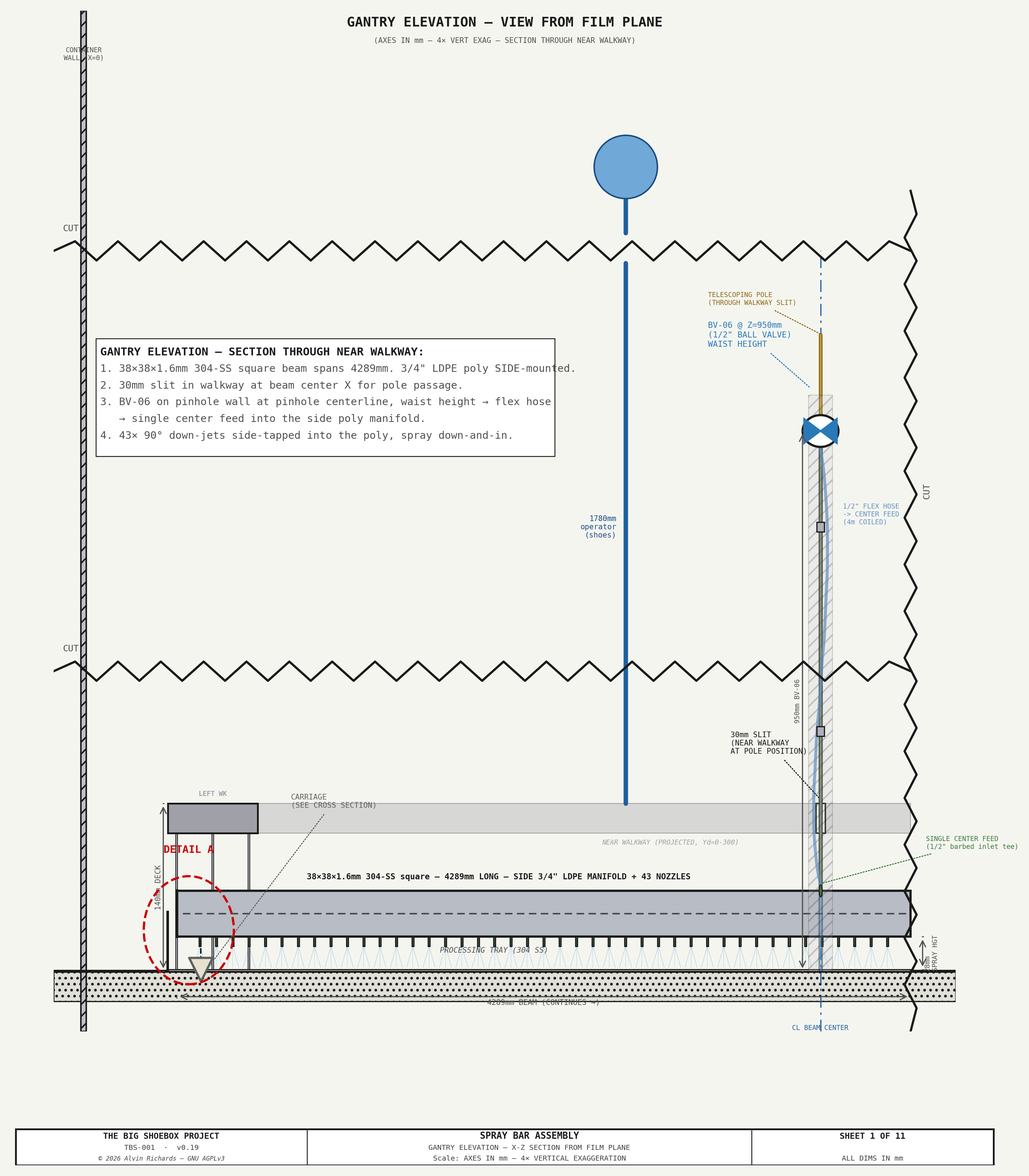
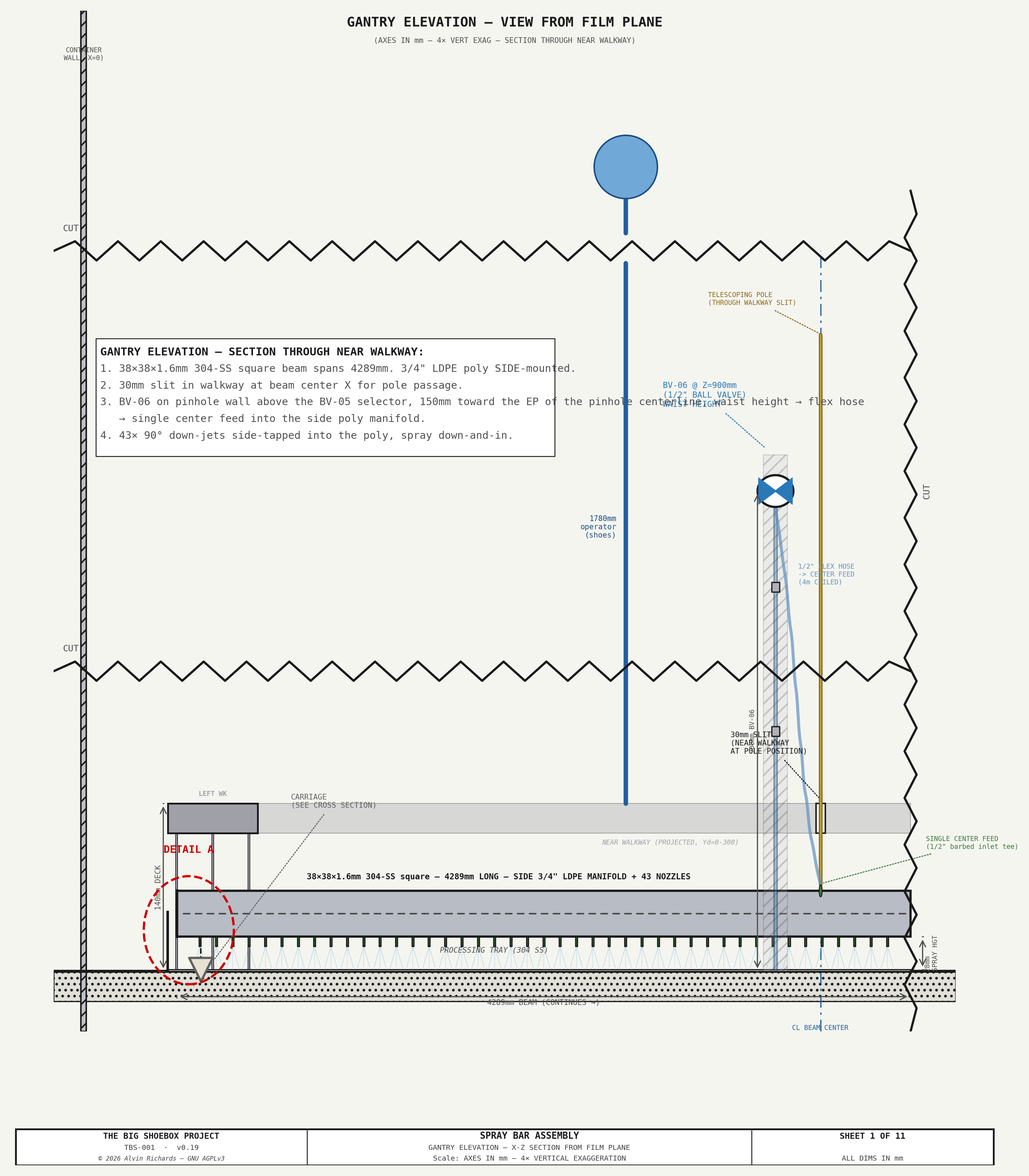
Spray valves at real positions: BV05_X (pinhole X − 150), BV05_Z 700, BV06_Z 900 read by 2D + 3D, elevation redrawn to the 3D topology; Plumbing §5 flow diagrams vertical + Brown drain-out

diff --git a/src/generators/generate_pinhole_wall_elevation.py b/src/generators/generate_pinhole_wall_elevation.py
@@ -17,7 +17,7 @@ matplotlib.use("Agg")
 import matplotlib.pyplot as plt
 import matplotlib.patches as mpatches
 
-from tbs_constants import C_LEN, C_HGT, PH_X, PH_H, EVAP_DUCT_X, EVAP_DUCT_Z, EVAP_DUCT_D, EVAP_STOW_X, EVAP_W, EVAP_D, EVAP_H, EVAP_STOW_Z, PWR_PANEL_X, PWR_PANEL_W, PWR_PANEL_H, PWR_PANEL_Z, EP_X, EP_W, EP_H_LO, EP_H_HI, BA_X, BA_W, BA_H_LO, BA_H_HI, BA_STACK_TOP, BA_D, PUMP_PIPE_OD, PUMP_PIPE_WALL, TAP_X, TAP_Z, SHELF_X_L, SHELF_X_R, SHELF_H, SHELF_T, SHELF_STOW_TOP_Z, SHELF_YD_NEAR, SHELF_DEPTH, PULL_CORD_BOTTOM_Z, WALKWAY_H, WALKWAY_GRATE_T, WALKWAY_W, WALKWAY_BRACKET_T, WALKWAY_NEAR_WIDE_W, WALKWAY_NEAR_WIDE_X_L, WALKWAY_NEAR_WIDE_X_R, CONTAINER_RIB_SPACING, PROC_TRAY_X_L, PROC_TRAY_X_R, PROC_TRAY_DRAIN_X, PROC_TRAY_SUMP_W, PROC_TRAY_SUMP_Z, SUMP_SUCTION_WALL_RUN_Z, PROC_TRAY_RIM, PROC_TRAY_YD_NEAR, SPRAY_BAR_FEED_Z, BV05_X, BV05_Z, C_OUT, C_CL, C_DIM, C_ALUM, C_STEEL, C_EVAP, C_ELEC, C_BATT, C_PINHOLE_EQ, ZONE_R_START, BB_OD, PWP_FILTER_X1, PWP_FILTER_X2, PWP_FILTER_X3, PWP_FILTER_TOP_Z, PWP_FILTER_BOT_Z, PWP_FILTER_HEAD_Z, PWP_FILTER_CAP_Z, PWP_SV01_X, PWP_SV01_Z, PWP_SROW_Z0, PWP_SV02_Z, PWP_DV02_Z, PWP_ACC2_X, PWP_ACC2_Z0, PWP_PANEL_X0, PWP_PANEL_X1, PWP_PANEL_Z0, PWP_PANEL_H, DIAGRAMS_DIR
+from tbs_constants import C_LEN, C_HGT, PH_X, PH_H, EVAP_DUCT_X, EVAP_DUCT_Z, EVAP_DUCT_D, EVAP_STOW_X, EVAP_W, EVAP_D, EVAP_H, EVAP_STOW_Z, PWR_PANEL_X, PWR_PANEL_W, PWR_PANEL_H, PWR_PANEL_Z, EP_X, EP_W, EP_H_LO, EP_H_HI, BA_X, BA_W, BA_H_LO, BA_H_HI, BA_STACK_TOP, BA_D, PUMP_PIPE_OD, PUMP_PIPE_WALL, TAP_X, TAP_Z, SHELF_X_L, SHELF_X_R, SHELF_H, SHELF_T, SHELF_STOW_TOP_Z, SHELF_YD_NEAR, SHELF_DEPTH, PULL_CORD_BOTTOM_Z, WALKWAY_H, WALKWAY_GRATE_T, WALKWAY_W, WALKWAY_BRACKET_T, WALKWAY_NEAR_WIDE_W, WALKWAY_NEAR_WIDE_X_L, WALKWAY_NEAR_WIDE_X_R, CONTAINER_RIB_SPACING, PROC_TRAY_X_L, PROC_TRAY_X_R, PROC_TRAY_DRAIN_X, PROC_TRAY_SUMP_W, PROC_TRAY_SUMP_Z, SUMP_SUCTION_WALL_RUN_Z, PROC_TRAY_RIM, PROC_TRAY_YD_NEAR, SPRAY_BAR_FEED_Z, BV05_X, BV05_Z, BV06_Z, C_OUT, C_CL, C_DIM, C_ALUM, C_STEEL, C_EVAP, C_ELEC, C_BATT, C_PINHOLE_EQ, ZONE_R_START, BB_OD, PWP_FILTER_X1, PWP_FILTER_X2, PWP_FILTER_X3, PWP_FILTER_TOP_Z, PWP_FILTER_BOT_Z, PWP_FILTER_HEAD_Z, PWP_FILTER_CAP_Z, PWP_SV01_X, PWP_SV01_Z, PWP_SROW_Z0, PWP_SV02_Z, PWP_DV02_Z, PWP_ACC2_X, PWP_ACC2_Z0, PWP_PANEL_X0, PWP_PANEL_X1, PWP_PANEL_Z0, PWP_PANEL_H, DIAGRAMS_DIR
 from tbs_drawing import (draw_dim_h, draw_dim_v, leader, draw_cl, draw_notes, draw_mixed_pipe,
                          draw_pipe_path as _tbs_pipe_path)
 from tbs_title_block import title_block
@@ -439,15 +439,16 @@ ax.text(sx(4590), sz(PWP_ACC2_Z0 + 120), "from P-02\n(corridor)", ha="right", va
 # ── ACC-02 OUT — recycled spray → 3W-BV-05 spray selector → spray bar ──
 # The −X run crosses BEHIND the P-04 sump-pickup riser (X=_rise_x): the riser stays unbroken and this
 # run breaks flush against its outer wall (plumbing-skill crossing rule — no bridge arcs).
-_bv5x, _bv5z = BV05_X - 150, BV05_Z
+_bv5x, _bv5z = BV05_X, BV05_Z
 _zc = PWP_ACC2_Z0 + 60                             # 980 — the ACC-02 OUT run height
+_bv5_in_x = _bv5x + 45                             # recycled drop, beside the selector (clear of the sump riser + the mixed riser above)
 _bpipe([PWP_ACC2_X - 63, _rise_x + OD_H / 2], [_zc, _zc])
-_bpipe([_rise_x - OD_H / 2, _bv5x, _bv5x], [_zc, _zc, _bv5z + 20])
+_bpipe([_rise_x - OD_H / 2, _bv5_in_x, _bv5_in_x, _bv5x + 8], [_zc, _zc, _bv5z, _bv5z])   # into the selector's +X recycled port
 # 3W-BV-05 selector symbol (fresh Blue ↔ recycled Brown → spray bar)
 ax.add_patch(mpatches.Rectangle((sx(_bv5x) - 8, sz(_bv5z) - 8), 16, 16, facecolor=C_VALVE, edgecolor=C_OUT, lw=0.8, zorder=12))
-ax.text(sx(_bv5x), sz(_bv5z + 95), "3W-BV-05\n(spray selector)", ha="center", va="bottom", fontsize=4.0, color=C_BROWN, zorder=10, **FONT)
-# BV-05 → down to the spray-bar supply line (where the Blue supply feeds in)
-_bpipe([_bv5x, _bv5x], [_bv5z - 20, SPRAY_BAR_FEED_Z])
+ax.text(sx(_bv5x - 40), sz(_bv5z), "3W-BV-05\n(spray selector)", ha="left", va="center", fontsize=4.0, color=C_BROWN, zorder=10, **FONT)
+# Blue supply trunk → UP into the BV-05 selector's fresh port
+draw_pipe_path(ax, [_bv5x, _bv5x], [SPRAY_BAR_FEED_Z, _bv5z - 8], OD_H, WALL_H, fc=C_BLUE, ec=C_BLUE_EC, bore_fc="white", zorder=8)
 
 # ═══════════════════════════════════════════════════════════════════════════
 # 4a. PLUMBING — Blue supply to spray bar (rev 7: simplified)
@@ -475,20 +476,18 @@ ax.text(sx(_supply_mid_x + 500), sz(SUPPLY_Z + 5),
         f"BLUE SUPPLY → SPRAY BAR (Z={SUPPLY_Z}, BELOW GRATING)", ha="center", va="top",
         fontsize=4, color=C_BLUE, zorder=10, **FONT)
 
-# ── BV-06 — spray on/off valve (riser from supply to Z=900) ─────────────
-
-
+# ── BV-06 — spray on/off valve, directly above the BV-05 selector on the same riser ─────────────
 BV05_R = 25              # valve body radius for symbol
 
-# Riser from supply pipe up to BV-06 — downstream of the BV-05 selector: Blue OR Brown (striped)
+# Riser from the BV-05 selector up to BV-06 — downstream of the selector: Blue OR Brown (striped)
 draw_pipe_path(ax,
     [BV05_X, BV05_X],
-    [SUPPLY_Z, BV05_Z],
+    [BV05_Z + 8, BV06_Z],
     OD_H, WALL_H, fc=C_BLUE, ec=C_BLUE_EC, bore_fc=C_BLUE, zorder=8)
-draw_mixed_pipe(ax, [sx(BV05_X), sx(BV05_X)], [sz(SUPPLY_Z), sz(BV05_Z)], 2.0, base=False, zorder=10)
+draw_mixed_pipe(ax, [sx(BV05_X), sx(BV05_X)], [sz(BV05_Z + 8), sz(BV06_Z)], 2.0, base=False, zorder=10)
 
 # BV-06 ball-valve symbol (bowtie inside white circle)
-_bvx, _bvz = sx(BV05_X), sz(BV05_Z)
+_bvx, _bvz = sx(BV05_X), sz(BV06_Z)
 ax.add_patch(plt.Circle((_bvx, _bvz), BV05_R,
              fc="white", ec=C_BLUE_EC, lw=1.5, zorder=12))
 _bs = BV05_R * 0.62      # bowtie triangle half-size
@@ -501,18 +500,18 @@ ax.add_patch(plt.Polygon([(_bvx + _bs, _bvz - _bs),
                           (_bvx, _bvz)],
                          fc=C_BLUE, ec=C_BLUE, zorder=13))
 
-leader(ax, sx(BV05_X), sz(BV05_Z + BV05_R + 5),
-       sx(BV05_X + 190), sz(BV05_Z + 78),
+leader(ax, sx(BV05_X), sz(BV06_Z + BV05_R + 5),
+       sx(BV05_X + 190), sz(BV06_Z + 78),
        "BV-06 — SPRAY ON/OFF",
        fs=4, color=C_BLUE, font=FONT, zorder=15)
 
 # Flex hose stub from BV-06 (drops down to spray bar — off-wall)
-ax.annotate("", xy=(sx(BV05_X - 100), sz(BV05_Z - 50)),
-            xytext=(sx(BV05_X), sz(BV05_Z - BV05_R)),
+ax.annotate("", xy=(sx(BV05_X - 100), sz(BV06_Z - 50)),
+            xytext=(sx(BV05_X), sz(BV06_Z - BV05_R)),
             arrowprops=dict(arrowstyle="-|>", color=C_BLUE, lw=0.8,
                             connectionstyle="arc3,rad=0.3"),
             zorder=10)
-ax.text(sx(BV05_X - 175), sz(BV05_Z - 80),
+ax.text(sx(BV05_X - 175), sz(BV06_Z - 80),
         "FLEX HOSE\nTO SPRAY BAR\n(OFF WALL ·\nBlue or Brown)",
         ha="left", va="top", fontsize=4.0, color=C_BLUE,
         style="italic", zorder=10, **FONT)
@@ -650,7 +649,7 @@ for ix_mm, ilabel in items:
 notes = [
     "NOTES",
     f"1. Blue supply pipe: ½\" PVC Sch-40 (OD=21mm) at Z={SUPPLY_Z} (below walkway grating),"
-    f" from IBC zone to spray bar. BV-06 riser at pinhole centerline to Z={BV05_Z} (waist height)."
+    f" from IBC zone to spray bar. BV-05 selector at Z={BV05_Z}, BV-06 on/off above it at Z={BV06_Z} (waist height), {PH_X - BV05_X}mm toward the EP of the pinhole centerline."
     " Chemistry tap branch (¾\") rises to shelf.",
     f"2. Evap cooler is EXTERNAL — its only presence on this wall is the Ø{EVAP_DUCT_D}mm duct penetration at X={EVAP_DUCT_X}, Z={EVAP_DUCT_Z}.",
     "3. Pinhole wall carries the FILTER SKID: tray-drain P-04 + SV-02 + DV-02 (skid row under the filters),"

diff --git a/src/models/generate_sketchup_model.py b/src/models/generate_sketchup_model.py
@@ -37,7 +37,7 @@ import math
 import argparse
 
 sys.path.insert(0, os.path.join(os.path.dirname(__file__), "..", "generators"))
-from tbs_constants import C_LEN, C_WID, C_HGT, WALL_T, PROC_TRAY_X_L, PROC_TRAY_X_R, PROC_TRAY_YD_NEAR, PROC_TRAY_YD_FAR, PROC_TRAY_RIM, PROC_TRAY_FLOOR_Z_LOW, tray_floor_z, WALKWAY_W, WALKWAY_H, WALKWAY_GRATE_T, WALKWAY_FAR_YD, WALKWAY_RIGHT_X, WALKWAY_RIGHT_W, WALKWAY_LEFT_X, WALKWAY_BRACKET_T, WALKWAY_BRACKET_H, CONTAINER_RIB_SPACING, WALKWAY_NEAR_WIDE_W, WALKWAY_NEAR_WIDE_X_L, WALKWAY_NEAR_WIDE_X_R, WALKWAY_LEFT_WIDE_W, WALKWAY_LEFT_WIDE_YD_L, WALKWAY_LEFT_WIDE_YD_R, PH_X, PH_H, PH_D, FP_X_L, FP_X_R, FP_H, FP_Y, RAIL_X_R, RAIL_OFF_BOT, FP_RAIL_WEB, FP_RAIL_FLANGE, FP_RAIL_BUILD_BOT, FP_RAIL_GUIDE_GAP, FP_RAIL_ZC_BOT, FP_RAIL_ZC_TOP, FP_FILM_TOP, BAY_FRONT_X, BAY_WALL_T, PANEL_CENTER_T, PANEL_CORNER_T, PANEL_FLOOR_GAP, PANEL_FAN_BAND_Z, PANEL_CORNER_YD_L, PANEL_CORNER_YD_R, PIVOT_X, PIVOT_YD, SWING_LOCK_DEG, PANEL_CUT_YD, FAR_STRIP_YD0, PIVOT_POST_OD, DRUM_CAGE_X0, DRUM_CAGE_X1, DRUM_CAGE_YD_L, DRUM_CAGE_YD_R, WALKWAY_NEAR_LIFTOUT_X_R, BB_OD, BB_H, EQPANEL_T, IBC_COL_X, IBC_H_1000, IBC_PALLET_H, BLUE_IBC_Y, IBC_FRAME_RHS, IBC_FRONT_BAR_D, IBC_FOOT_PLATE, IBC_FOOT_PLATE_T, FLOOR_PLATE_T, IBC_FOOT_BOLT_PCD, IBC_FRONT_FOOT_DX, IBC_FRONT_RAIL_H, IBC_FRONT_RAIL_W, FP_CORNER_SEAT_PLATE_T, DRUM_CX, DRUM_CY, DRUM_R, DRUM_H_LT, LT_HOUSING_R, LT_HOUSING_T, LT_DRUM_OR, LT_DRUM_T, LT_OPENING_DEG, EP_X, EP_W, EP_H_LO, EP_H_HI, ENCL_SHELL_D, SOLAR_ARRAY_X, SOLAR_ARRAY_YD, SHELF_X_L, SHELF_X_R, SHELF_W, SHELF_H, SHELF_T, SHELF_DEPTH, SHELF_YD_NEAR, SHELF_YD_FAR, SHELF_STOW_TOP_Z, EVAP_W, EVAP_D, EVAP_H, EVAP_DUCT_X, EVAP_DUCT_Z, EVAP_DUCT_D, INVERTER_X, INVERTER_Z, INVERTER_W, INVERTER_H, INVERTER_D, FAN_BODY_D, FAN_A_YD, FAN_A_H, FAN_B_YD, FAN_B_H, DUCT_DEPTH, DUCT_HEIGHT, BV05_X, TAP_X, TAP_Z, TAP_PIPE_OD, PUMP_PIPE_OD, SPRAY_BAR_FEED_Z, SPRAY_BAR_TRAY_FLOOR, PROC_TRAY_DRAIN_X, PROC_TRAY_SUMP_Z, SUMP_SUCTION_WALL_RUN_Z, PWP_FILTER_X1, PWP_FILTER_X2, PWP_FILTER_X3, PWP_FILTER_TOP_Z, PWP_FILTER_YD, PWP_P02_X, PWP_SV01_X, PWP_WAIST_Z, PWP_SV01_Z, PWP_PANEL_X0, PWP_PANEL_X1, PWP_PANEL_Z0, PWP_PANEL_H, PWP_SROW_Z0, PWP_ACC2_X, PWP_ACC2_Z0, RWK_X_L, RWK_X_R, RWK_ARM_BOT, RWK_ARM_TOP, RWK_AH, RWK_ARM_W, RWK_BEARER_W, RWK_X_UP, RWK_J6_BOLT_ZS, RWK_J6_EP_H, RWK_RIBBON_NOTCH_YDS, PDH_PLATE_OD, PDH_RING_OD, PDH_PLATE_T, PDH_RING_T, PDH_ADAPT_OD, PDH_ADAPT_T, PDH_MOUNT_BC, PDH_MOUNT_N
+from tbs_constants import C_LEN, C_WID, C_HGT, WALL_T, PROC_TRAY_X_L, PROC_TRAY_X_R, PROC_TRAY_YD_NEAR, PROC_TRAY_YD_FAR, PROC_TRAY_RIM, PROC_TRAY_FLOOR_Z_LOW, tray_floor_z, WALKWAY_W, WALKWAY_H, WALKWAY_GRATE_T, WALKWAY_FAR_YD, WALKWAY_RIGHT_X, WALKWAY_RIGHT_W, WALKWAY_LEFT_X, WALKWAY_BRACKET_T, WALKWAY_BRACKET_H, CONTAINER_RIB_SPACING, WALKWAY_NEAR_WIDE_W, WALKWAY_NEAR_WIDE_X_L, WALKWAY_NEAR_WIDE_X_R, WALKWAY_LEFT_WIDE_W, WALKWAY_LEFT_WIDE_YD_L, WALKWAY_LEFT_WIDE_YD_R, PH_X, PH_H, PH_D, FP_X_L, FP_X_R, FP_H, FP_Y, RAIL_X_R, RAIL_OFF_BOT, FP_RAIL_WEB, FP_RAIL_FLANGE, FP_RAIL_BUILD_BOT, FP_RAIL_GUIDE_GAP, FP_RAIL_ZC_BOT, FP_RAIL_ZC_TOP, FP_FILM_TOP, BAY_FRONT_X, BAY_WALL_T, PANEL_CENTER_T, PANEL_CORNER_T, PANEL_FLOOR_GAP, PANEL_FAN_BAND_Z, PANEL_CORNER_YD_L, PANEL_CORNER_YD_R, PIVOT_X, PIVOT_YD, SWING_LOCK_DEG, PANEL_CUT_YD, FAR_STRIP_YD0, PIVOT_POST_OD, DRUM_CAGE_X0, DRUM_CAGE_X1, DRUM_CAGE_YD_L, DRUM_CAGE_YD_R, WALKWAY_NEAR_LIFTOUT_X_R, BB_OD, BB_H, EQPANEL_T, IBC_COL_X, IBC_H_1000, IBC_PALLET_H, BLUE_IBC_Y, IBC_FRAME_RHS, IBC_FRONT_BAR_D, IBC_FOOT_PLATE, IBC_FOOT_PLATE_T, FLOOR_PLATE_T, IBC_FOOT_BOLT_PCD, IBC_FRONT_FOOT_DX, IBC_FRONT_RAIL_H, IBC_FRONT_RAIL_W, FP_CORNER_SEAT_PLATE_T, DRUM_CX, DRUM_CY, DRUM_R, DRUM_H_LT, LT_HOUSING_R, LT_HOUSING_T, LT_DRUM_OR, LT_DRUM_T, LT_OPENING_DEG, EP_X, EP_W, EP_H_LO, EP_H_HI, ENCL_SHELL_D, SOLAR_ARRAY_X, SOLAR_ARRAY_YD, SHELF_X_L, SHELF_X_R, SHELF_W, SHELF_H, SHELF_T, SHELF_DEPTH, SHELF_YD_NEAR, SHELF_YD_FAR, SHELF_STOW_TOP_Z, EVAP_W, EVAP_D, EVAP_H, EVAP_DUCT_X, EVAP_DUCT_Z, EVAP_DUCT_D, INVERTER_X, INVERTER_Z, INVERTER_W, INVERTER_H, INVERTER_D, FAN_BODY_D, FAN_A_YD, FAN_A_H, FAN_B_YD, FAN_B_H, DUCT_DEPTH, DUCT_HEIGHT, BV05_X, BV05_Z, BV06_Z, TAP_X, TAP_Z, TAP_PIPE_OD, PUMP_PIPE_OD, SPRAY_BAR_FEED_Z, SPRAY_BAR_TRAY_FLOOR, PROC_TRAY_DRAIN_X, PROC_TRAY_SUMP_Z, SUMP_SUCTION_WALL_RUN_Z, PWP_FILTER_X1, PWP_FILTER_X2, PWP_FILTER_X3, PWP_FILTER_TOP_Z, PWP_FILTER_YD, PWP_P02_X, PWP_SV01_X, PWP_WAIST_Z, PWP_SV01_Z, PWP_PANEL_X0, PWP_PANEL_X1, PWP_PANEL_Z0, PWP_PANEL_H, PWP_SROW_Z0, PWP_ACC2_X, PWP_ACC2_Z0, RWK_X_L, RWK_X_R, RWK_ARM_BOT, RWK_ARM_TOP, RWK_AH, RWK_ARM_W, RWK_BEARER_W, RWK_X_UP, RWK_J6_BOLT_ZS, RWK_J6_EP_H, RWK_RIBBON_NOTCH_YDS, PDH_PLATE_OD, PDH_RING_OD, PDH_PLATE_T, PDH_RING_T, PDH_ADAPT_OD, PDH_ADAPT_T, PDH_MOUNT_BC, PDH_MOUNT_N
 
 from tbs_draw import *            # shared drawing/material primitives (Phase 0 extraction)
 

diff --git a/src/models/generate_pinhole_water_panel.py b/src/models/generate_pinhole_water_panel.py
@@ -395,7 +395,7 @@ def tap01_supply():
     Yd12-against-the-wall path ran straight through the bracket plates/bolts.  BV-04/BV-05 off-panel."""
     yd, fz = ov.PROC_TRAY_YD_NEAR - 11, ov.SPRAY_BAR_FEED_Z   # 69 — butt the tray near rim (Yd80), under the triangle
     pr, tr = ov.PUMP_PIPE_OD / 2, ov.TAP_PIPE_OD / 2
-    bvx = ov.BV05_X - 150   # BV-05 riser nudged 150mm −X (toward the EP) to clear the relocated tray-sump suction at PH_X
+    bvx = ov.BV05_X         # BV-05 / BV-06 riser — 150mm −X of the pinhole centerline, clear of the tray-sump suction
     p = []
     # UNDER-WALKWAY RIBBON (lane 1): the corridor blue trunk (dropped clear of the FP rail at X4670, Yd~1132,
     # z60) rises to FLUSH in the tray-edge slot, crosses the notched outer beam, runs −Yd along the ribbon to
@@ -408,7 +408,7 @@ def tap01_supply():
     # BV-05 3W SELECTOR (fresh ↔ recycled → spray bar) — relocated FORWARD (Yd) + UP (Z) onto a bracket off
     # the pinhole wall, close to the spray-bar pole-top feed (2420,633,1303) so the delivery coil is short.
     #   run = fresh (−Yd, up from the trunk) ↔ spray (+Yd, to the coil); branch = recycled IN (+X, from ACC-02).
-    b5x, b5y, b5z = bvx, yd, 700                       # ON the pinhole wall (Yd69); DROPPED so it + its routing clear the pinhole assembly (Z1024-1364, aperture Z1194)
+    b5x, b5y, b5z = bvx, yd, ov.BV05_Z                 # ON the pinhole wall (Yd69); DROPPED so it + its routing clear the pinhole assembly (Z1024-1364, aperture Z1194)
     dvt = cp.DVB / 2 + cp.DVL                          # diverter port-tip reach
     p.append(cp.diverter("3W-BV-05 (Blue/Brown selector)", b5x, b5y, b5z, run="z", branch="x+", handle="y+", color=draw.C_VALVE))
     # Fresh supply: tap the trunk, rise straight into the −Z fresh port
@@ -422,7 +422,7 @@ def tap01_supply():
         [(b5x, b5y, b5z + dvt),                        # off the BV-05 +Z selected port
          (b5x, b5y, 1000),                             # MIXED (Blue or Brown per BV-05) — UP the pinhole wall to BV-06 (stays below the pinhole Z1024)
          hose_out], pr))
-    p.append(cp.ball_valve("BV-06 (spray on/off)", b5x, b5y, 900, "z", hdir="+y"))   # 2-way ON/OFF — WALL-mounted, reach height
+    p.append(cp.ball_valve("BV-06 (spray on/off)", b5x, b5y, ov.BV06_Z, "z", hdir="+y"))   # 2-way ON/OFF — WALL-mounted, reach height
     p.append(draw.ruby_coil_cord("Spray-bar supply hose (BV-06 -> spray bar, coiled)",
         [hose_out,                                     # out of the riser-top elbow
          (2380, 480, 720),                             # FORWARD-low to the pole area (below the pinhole Z1024)
@@ -539,8 +539,8 @@ LABEL_POINTS = [  # (x, y, z, text, leader dx,dy,dz) — (x,y,z) is the arrow TI
     (ov.C_LEN - 30, cp.X1_TEE_Y, cp.X1_TEE_Z, "X1\n(fresh fill)", -550, 250, 0),
     (ov.C_LEN - 30, cp.COL_L, 1700, "X3\n(brown drain out)", -550, 0, 250),
     (ov.C_LEN - 30, cp.COL_R, 1620, "X4\n(waste drain out)", -550, 0, -250),
-    (ov.BV05_X - 150, ov.PROC_TRAY_YD_NEAR - 11, 700, "3W-BV-05\n(Blue/Brown selector)", 0, 380, 250),   # the wall-mounted spray-bar source selector
-    (ov.BV05_X - 150, ov.PROC_TRAY_YD_NEAR - 11, 900, "BV-06\n(spray on/off)", 0, 300, 200),   # the 2-way on/off, WALL-mounted above the selector
+    (ov.BV05_X, ov.PROC_TRAY_YD_NEAR - 11, ov.BV05_Z, "3W-BV-05\n(Blue/Brown selector)", 0, 380, 250),   # the wall-mounted spray-bar source selector
+    (ov.BV05_X, ov.PROC_TRAY_YD_NEAR - 11, ov.BV06_Z, "BV-06\n(spray on/off)", 0, 300, 200),   # the 2-way on/off, WALL-mounted above the selector
 ]
 # Off-panel / context labels — shown ONLY in the full "Labeled" scene (Labels Context tag), kept
 # OUT of the "Plumbing (labeled)" scene so their leaders don't clutter the plumbing view.
@@ -840,7 +840,7 @@ def skid_plumbing(part="all"):
         lead[:-1] + cross + tail[1:], rp, color=draw.C_IBC_BROWN))
     # ── Leg 5: ACC-02 OUT (−X) → 3W-BV-05 recycled port — closes the recycle-spray loop ──
     acc2_out = (ACC2_X - cp.ACC_R - 30, ov.PWP_FILTER_YD, ACC2_Z0 + 28)   # ACC-02 −X OUT tip (3583.5,104,948)
-    b5rx = (ov.BV05_X - 150) + (cp.DVB / 2 + cp.DVL)                             # BV-05 +X recycled port tip X (2282)
+    b5rx = ov.BV05_X + (cp.DVB / 2 + cp.DVL)                             # BV-05 +X recycled port tip X (2282)
     zb = acc2_out[2]                                        # 948 — panel-bottom run height (= ACC-02 OUT)
     p.append(draw.ruby_pipe_run("ACC-02 -> BV-05 (recycled spray)",
         [acc2_out,                                          # off ACC-02's −X OUT port (collinear −X)

diff --git a/src/generators/generate_spray_bar_diagram.py b/src/generators/generate_spray_bar_diagram.py
@@ -26,7 +26,7 @@ import matplotlib.pyplot as plt
 import matplotlib.patches as mpatches
 from matplotlib.patches import Rectangle, Circle, Wedge, Polygon
 
-from tbs_constants import C_OUT, C_CL, C_DIM, C_LEN, C_WID, PROC_TRAY_X_L, PROC_TRAY_X_R, PROC_TRAY_W, PROC_TRAY_D, PROC_TRAY_RIM, PROC_TRAY_YD_NEAR, PROC_TRAY_YD_FAR, WALKWAY_W, WALKWAY_H, WALKWAY_GRATE_T, WALKWAY_LEFT_X, WALKWAY_RIGHT_X, WALKWAY_FAR_YD, PROC_OPEN_X_L, PROC_OPEN_X_R, PROC_TRAY_FLOOR_Z_LOW, SPRAY_BAR_BEAM, SPRAY_BAR_BEAM_W, SPRAY_BAR_BEAM_H, SPRAY_BAR_BEAM_T, SPRAY_BAR_WHEEL_DIA, SPRAY_BAR_WHEEL_W, SPRAY_BAR_WHEELS_PER_SIDE, SPRAY_BAR_WHEEL_SP, SPRAY_BAR_TRAY_FLOOR, SPRAY_BAR_AXLE_RISE, SPRAY_BAR_BRACKET_DROP, SPRAY_BAR_BEAM_BOT_RISE, SPRAY_BAR_BEAM_TOP_RISE, SPRAY_BAR_POLY_OD, SPRAY_BAR_POLY_ID, SPRAY_BAR_TRAVEL, SPRAY_BAR_N_NOZZLES, SPRAY_BEAM_SPAN, BV05_X, BV05_Z, SPRAY_BAR_SLIT_W, SPRAY_BAR_NOZZLE_PITCH, PROC_TRAY_DRAIN_X, PROC_TRAY_SUMP_W, PROC_TRAY_SUMP_D, PROC_TRAY_SUMP_Z, PROC_TRAY_GUTTER_W, PROC_TRAY_SHIM_N, DIAGRAMS_DIR
+from tbs_constants import C_OUT, C_CL, C_DIM, C_LEN, C_WID, PROC_TRAY_X_L, PROC_TRAY_X_R, PROC_TRAY_W, PROC_TRAY_D, PROC_TRAY_RIM, PROC_TRAY_YD_NEAR, PROC_TRAY_YD_FAR, WALKWAY_W, WALKWAY_H, WALKWAY_GRATE_T, WALKWAY_LEFT_X, WALKWAY_RIGHT_X, WALKWAY_FAR_YD, PROC_OPEN_X_L, PROC_OPEN_X_R, PROC_TRAY_FLOOR_Z_LOW, SPRAY_BAR_BEAM, SPRAY_BAR_BEAM_W, SPRAY_BAR_BEAM_H, SPRAY_BAR_BEAM_T, SPRAY_BAR_WHEEL_DIA, SPRAY_BAR_WHEEL_W, SPRAY_BAR_WHEELS_PER_SIDE, SPRAY_BAR_WHEEL_SP, SPRAY_BAR_TRAY_FLOOR, SPRAY_BAR_AXLE_RISE, SPRAY_BAR_BRACKET_DROP, SPRAY_BAR_BEAM_BOT_RISE, SPRAY_BAR_BEAM_TOP_RISE, SPRAY_BAR_POLY_OD, SPRAY_BAR_POLY_ID, SPRAY_BAR_TRAVEL, SPRAY_BAR_N_NOZZLES, SPRAY_BEAM_SPAN, BV05_X, BV06_Z, SPRAY_BAR_SLIT_W, SPRAY_BAR_NOZZLE_PITCH, PROC_TRAY_DRAIN_X, PROC_TRAY_SUMP_W, PROC_TRAY_SUMP_D, PROC_TRAY_SUMP_Z, PROC_TRAY_GUTTER_W, PROC_TRAY_SHIM_N, DIAGRAMS_DIR
 from tbs_title_block import title_block
 from tbs_drawing import draw_dim_h, draw_dim_v, leader, draw_notes
 from tbs_constants import DIAGRAM_DPI, FONT, C_WALL
@@ -314,8 +314,8 @@ def draw_sheet1():
            fs=4.5, color="#8B6914", font=FONT, zorder=15)
 
     # ── BV-06 on pinhole wall ────────────────────────────────────────────
-    bv_z_real = BV05_Z
-    bv_z = BV05_Z - PIPE_SKIP
+    bv_z_real = BV06_Z
+    bv_z = BV06_Z - PIPE_SKIP
     bv_size = 30
     pipe_w = 10
 
@@ -430,7 +430,7 @@ def draw_sheet1():
         "GANTRY ELEVATION — SECTION THROUGH NEAR WALKWAY:",
         f"1. {BEAM_SECT_LABEL} beam spans {BEAM_SPAN}mm. 3/4\" LDPE poly SIDE-mounted.",
         f"2. {SLIT_WIDTH}mm slit in walkway at beam center X for pole passage.",
-        "3. BV-06 on pinhole wall at pinhole centerline, waist height → flex hose",
+        "3. BV-06 on pinhole wall above the BV-05 selector, 150mm toward the EP of the pinhole centerline, waist height → flex hose",
         "   → single center feed into the side poly manifold.",
         f"4. {N_NOZZLES}× 90° down-jets side-tapped into the poly, spray down-and-in.",
     ]

diff --git a/src/generators/tbs_constants.py b/src/generators/tbs_constants.py
@@ -1011,9 +1011,10 @@ PROC_TRAY_DRAIN_X  = 2386       # FIXED (2026-08-12: kept at 2386 when FP_X_L→
 #                                 clear walkway grate bay, clearing the X2526 cantilever bracket by 50mm
 PROC_TRAY_DRAIN_YD = PROC_TRAY_YD_NEAR  # = 80mm — at the near rim (low edge of the Yd fall)
 
-BV05_X             = PH_X         # BV-05 spray selector X on pinhole wall — at pinhole centerline, arm's reach from operator during wash pass
+BV05_X             = PH_X - 150   # BV-05 selector + BV-06 on/off riser X on the pinhole wall — 150mm toward the EP of the pinhole centerline, clear of the tray-sump suction riser
 BV05_YD            = 0           # BV-05 spray selector on pinhole wall (Yd=0) — reserved (spec; not yet drawn)
-BV05_Z             = 950         # BV-05 spray selector height on pinhole wall (mm AFF) — waist height from the raised walkway deck [+50 raise; was 900]
+BV05_Z             = 700         # BV-05 spray selector (Blue/Brown) height on the pinhole wall (mm AFF) — below the pinhole assembly (Z1024+)
+BV06_Z             = 900         # BV-06 spray on/off height (mm AFF), directly above BV-05 on the same riser — waist height from the walkway deck
 PROC_TRAY_SUMP_W   = 180        # center pickup well width in X (mm) — a local well at the gutter low point
 #   (X=PROC_TRAY_DRAIN_X); hosts the brown P-04 suction strainer, well bottom on the container floor (Z0).
 PROC_TRAY_SUMP_D   = 100        # sump well depth in Yd (mm)
@@ -1410,11 +1411,10 @@ RWK_GRATE_SLOT_X   = (4388, 4516)                            # X0..X1 — all 4 
 RWK_GRATE_SLOT_YDS = [(52, 84), (980, 1012), (1098, 1136)]   # (Yd0,Yd1) per band: pinhole-end drop / loop-over rise / corridor drop
 # NEAR walkway: round holes for the 3 vertical risers that cross the deck near the pinhole wall — the
 # tray-sump→P-04 suction, the TAP-01 fresh-water branch, and the BV-05 fresh-supply trunk.  (cx, cy, r);
-# r = pipe OD/2 + ~6mm clearance.  X positions: tray-drain + TAP_X are constants; the BV-05 trunk crosses
-# ~150mm upstream of the BV05_X selector (diagram-of-record detail coord).
+# r = pipe OD/2 + ~6mm clearance.  X positions: tray-drain, TAP_X and the BV-05 riser (BV05_X) are constants.
 NEAR_GRATE_HOLES   = [(PROC_TRAY_DRAIN_X, 104, 16),          # tray-sump → P-04 suction riser (Ø21 → Ø32)
                       (TAP_X,             69, 18),           # TAP-01 fresh-water branch riser (Ø25, 3/4in → Ø36)
-                      (2304,              69, 16)]           # BV-05 fresh-supply trunk riser (Ø21 → Ø32)
+                      (BV05_X,            69, 16)]           # BV-05 fresh-supply trunk riser (Ø21 → Ø32)
 # Inner long beam is CRANKED outboard around the muslin-drop rod slot: the rigid muslin batten drops
 # straight down at the tray edge (X=RWK_X_L), which sits over the inner beam — so over the notch Yd the
 # beam is jogged outboard by the full notch depth (its inboard face moves R_X0→R_X1) with angled ramps,

diff --git a/docs/editorial-review-todo.md b/docs/editorial-review-todo.md
@@ -48,7 +48,7 @@ are kept after each entry.
 ### Construction — Equipment & Water
 - [x] equipment-layout-report.md  — what/why pass 2026-11-20, confirmed complete (owner): zone X ranges + transport swing → fact placeholders; chemistry prep shelf added to the pinhole-wall zone (it sits in the optical X span, clear of the cone near the wall — the report said the optical zone held only rails/tray/walkway); "Reducing the film plane…" → stated as the design; "New Layout" alt text and the "600L tote does not exist" aside cut; sources corrected (pumps → Plumbing Report) + shelf source. Line-of-sight + floor plan diagrams now draw the shelf.
 - [x] water-system-report.md  — what/why pass 2026-11-20, confirmed complete (owner): DV-01 accept band reconciled to pH 6–7.5 (schematic said 6–7 while §4.2/§2.2 hold the buffer below 7.5, leaving 7–7.5 undefined) — same fix in the Operating Manual §4.2 (incl. step 4.2.9 "above pH 8" → 7.5) and Plumbing Report; band now BROWN_PH_LO/HI constants injected as facts (ASCII schematics keep literal text); flood depth → fact placeholder (owner: tray report), raw "~103 sq ft" dropped; §6 "instead of filling and dwelling / only P-04's runtime rises" → stated as the design; §4.1 cross-tie bullet tightened. §2 chemistry/waste and §9/§10 were rewritten this session and left as is.
-- [ ] plumbing-report.md  — IN PROGRESS: what/why pass 2026-11-20 (awaiting owner review): factual fixes — DV-01 outputs go to Brown IBC-3 (table said Blue IBC-2); filter-inlet reducer is on the DV-02 output (said P-02); P-05 shares the near-column IBC-3 tap (said far column); filter bracket is Pentair 244718 (said 150061, the retired kit); Blue manifold is PVC (said HDPE); P-04 lift is to the filter bank (said ~900mm head; the heads sit near the ceiling); §7.4 protrusion table listed the filter housings, which are on the other panel, and a "653mm clear" with no basis → corridor-panel items only, tip ≈ X4744 clear of the X4,649 rail; BV-06 named as the 6th 2-way valve. History cut: intro blockquote duplicating §1; §5.1 "(a) resolved 2026-07-27 … still open (b)(c)" paragraph (both done); "raised / added / re-routed / dropped" support-board phrasing; "replaced the welded frame −$85"; valve re-sourcing prices; "#29/#30" ticket refs. §4.4 now covers SV-02. Corridor width → placeholder. parts.py panel tags fixed (BV-03 → Corridor, SV-02 → Pinhole Wall). 3,527 → 3,329 words. Then: §2 "Panel Specifications" deleted (one panel only; rows duplicated §1, §7.1, the drawing and the cut sheets) — white face folded into §1; mounting merged into one §6.1 covering both panels; sections renumbered and inbound links repointed (water, electrical, manual, energy, dependency map).
+- [ ] plumbing-report.md  — IN PROGRESS: what/why pass 2026-11-20 (awaiting owner review): factual fixes — DV-01 outputs go to Brown IBC-3 (table said Blue IBC-2); filter-inlet reducer is on the DV-02 output (said P-02); P-05 shares the near-column IBC-3 tap (said far column); filter bracket is Pentair 244718 (said 150061, the retired kit); Blue manifold is PVC (said HDPE); P-04 lift is to the filter bank (said ~900mm head; the heads sit near the ceiling); §7.4 protrusion table listed the filter housings, which are on the other panel, and a "653mm clear" with no basis → corridor-panel items only, tip ≈ X4744 clear of the X4,649 rail; BV-06 named as the 6th 2-way valve. History cut: intro blockquote duplicating §1; §5.1 "(a) resolved 2026-07-27 … still open (b)(c)" paragraph (both done); "raised / added / re-routed / dropped" support-board phrasing; "replaced the welded frame −$85"; valve re-sourcing prices; "#29/#30" ticket refs. §4.4 now covers SV-02. Corridor width → placeholder. parts.py panel tags fixed (BV-03 → Corridor, SV-02 → Pinhole Wall). 3,527 → 3,329 words. Then: §2 "Panel Specifications" deleted (one panel only; rows duplicated §1, §7.1, the drawing and the cut sheets) — white face folded into §1; mounting merged into one §6.1 covering both panels; sections renumbered and inbound links repointed (water, electrical, manual, energy, dependency map). Then: §2.2 pump-selection/fuse text corrected + drain-pump switches S-05/S-03; valve tags renumbered (BV-05/06/07, no suffixes); §5 flow diagrams redrawn vertically (+ Brown drain-out path).
 - [ ] walkway-routing-sections.md
 - [ ] ibc-stacking-report.md
 - [ ] processing-tray-and-spray-bar.md

diff --git a/docs/plumbing-report.md b/docs/plumbing-report.md
@@ -350,7 +350,19 @@ P-clips (§8).
 ### 5.1 Blue System — Clean Water Supply
 
 ```
-IBC-1/IBC-2 → BV-01 → P-01 → ACC-01 → BV-05 → BV-06 → spray bar
+IBC-1 + IBC-2 (Blue, in parallel)
+        │
+      BV-01  (P-01 suction)
+        │
+      P-01
+        │
+     ACC-01
+        │
+      BV-05  (selector: Blue)
+        │
+      BV-06  (spray on/off)
+        │
+   spray bar (4m flex hose)
 ```
 
 P-01 draws from the Blue IBC manifold (the two Blue totes in parallel on the 1"
@@ -361,22 +373,69 @@ connects BV-06 to the spray bar center feed bulkhead.
 ### 5.2 Brown System — Used Water Recycling
 
 ```
-Tray sump → P-04 → SV-02 sample → 3W-DV-02 → 1/2"→1" reducer → F-01 → F-02 → F-03
-  → SV-01 sample tap → 3W-DV-01 → IBC-3 recycle (if pH 6–7.5) or IBC-4 waste (if above pH 7.5)
-IBC-3 → P-02 → ACC-02 → BV-05 → BV-06 → spray bar   (recycle spray)
+Tray sump
+    │
+  P-04  (tray drain)
+    │
+  SV-02  (pH sample)
+    │
+ 3W-DV-02 ──────────────→ IBC-4 waste (wash 1 under the dichromate option; heavy contamination)
+    │
+ 1/2"→1" reducer
+    │
+  F-01  (5μm sediment)
+    │
+  F-02  (KDF-55)
+    │
+  F-03  (carbon)
+    │
+  SV-01  (pH sample)
+    │
+ 3W-DV-01 ──────────────→ IBC-4 waste (above pH 7.5, or discolored)
+    │
+ IBC-3  Brown buffer (pH 6–7.5)
+
+
+IBC-3  Brown buffer             (recycle spray, wash 1)
+    │
+  BV-03  (P-02 suction)
+    │
+  P-02
+    │
+ ACC-02
+    │
+  BV-05  (selector: Brown)
+    │
+  BV-06  (spray on/off)
+    │
+ spray bar
+
+
+IBC-3  Brown buffer             (drain-out at a pump-out)
+    │
+  BV-02  (P-05 suction)
+    │
+  P-05   (switched by S-05)
+    │
+ X3 end-wall port → hauler's tanker
 ```
 
 P-04 lifts drain water from the processing tray sump up to the filter bank and, via 3W-DV-02,
 sends it into the 3-stage filter train. The SV-01 sample tap after the filters feeds the
 pH check that sets 3W-DV-01: recycle (IBC-3 Brown buffer) or Waste (IBC-4). **P-02** then recirculates the clean IBC-3 buffer to the spray bar (via
-ACC-02 and BV-05) — the recycle-spray loop.
+ACC-02, BV-05 and BV-06) — the recycle-spray loop.
 
 ### 5.3 Black System — Waste Containment
 
 ```
-3W-DV-01 reject → IBC-4
-3W-DV-02 wash 1 (dichromate option) / contaminated → IBC-4
-IBC-4 → BV-07 → P-03 → external drain port X4
+3W-DV-01 reject ──────┐
+                      ├──→ IBC-4  (waste)
+3W-DV-02 waste ───────┘       │
+                            BV-07  (P-03 suction)
+                              │
+                            P-03   (switched by S-03)
+                              │
+                         X4 end-wall port → hauler's tanker
 ```
 
 P-03 is dedicated to waste evacuation. X4 sits above the top of IBC-4, so the tote cannot drain

diff --git a/RELEASE.md b/RELEASE.md
@@ -26,6 +26,8 @@ is no separate publish step to run afterward.
 
 ## [Unreleased]
 
+- **Plumbing §5 flow diagrams drawn vertically** (one component per line, waste branches to the side), naming every valve and switch on each path; the Brown drain-out (IBC-3 → BV-02 → P-05 → X3) is now drawn.
+- **Spray valves single-sourced at their real positions.** `BV05_Z` (950) placed both spray valves in the 2D while the 3D had them at Z700 / Z900 with a typed −150mm X nudge. Now `BV05_X` = pinhole X − 150 (shared riser), `BV05_Z` = 700 (selector) and `BV06_Z` = 900 (on/off), read by the 3D builder, the pinhole-wall elevation, the spray-bar sheet and the near-walkway riser hole. The elevation now draws the 3D topology: Blue trunk up into BV-05, recycled Brown into its side, mixed riser up to BV-06, hose off BV-06.
 - **Valve tags renumbered — no letter suffixes.** The spray selector BV-05a is now **BV-05**, the spray on/off BV-05b is **BV-06**, and the P-03 waste-drain suction (was BV-06) is **BV-07**, across every report, the Operating Manual, the parts registry, the 2D sheets (pinhole-wall elevation, spray bar 1/7, panel layout + spine A, water system, electrical 4, support detail) and the 3D models. References to the valve the spray hose leaves from now name BV-06 (the on/off), and the flow chains read BV-05 → BV-06 → spray bar.
 - **Drain-pump switches S-05 / S-03.** The 2-pole EP master switch energized all four corridor pumps during every wash, including the drain pumps P-05 / P-03, whose suction valves are closed then — so they could not build pressure, their pressure switches would never stop them, and C1's 15A fuse would carry three running pumps. Each drain pump now has a local sealed 1-pole rocker (S-05, S-03) on the corridor near-upper side board, each mounted level with and beside its suction valve (S-05 by BV-02, S-03 by BV-06) since they are operated together, OFF except during a pump-out. 3D (water model: switches + rerouted + leads through drilled holes, interference-clean), Electrical Sheets 1/4/7, the near-upper board blueprint, parts/costing (+$20/$30/$40, SKU pending), Electrical §7.3, Plumbing §2.2 and the manual (setup check, valve matrix, pump-out, pack-down) updated. Plumbing §2.2 also corrected: the spray selector BV-05a — not the suction valves — chooses P-01 vs P-02, and C1's fuse covers one working pump while C2 carries P-04 alone.
 - **Energy model: tote pump-out corrected.** `calculate_energy_budget.py` and Daily Energy §6 assumed each tote gravity-drained through a low port and the pump lifted only a ~120 L residual (~36 Wh per dump run). X3/X4 sit above the bottom-tier totes, so both are pumped out entirely: the volume is now the run's recovered water (622 L per collection tote, unchanged by the dichromate split) → ~115 Wh per dump run (~5% of a 3-print day), with full 1,000 L totes as the ceiling. Light and day-share figures are generated too.

diff --git a/docs/processing-tray-and-spray-bar.md b/docs/processing-tray-and-spray-bar.md
@@ -491,9 +491,9 @@ A 90° cone at the ~50mm nozzle height footprints ~100mm, so the pitch was tight
 
 ### 3.10 Water Connection
 
-BV-06 (1/2" ball valve, spray-bar on/off) is mounted on the pinhole wall (Yd=0) at
-X=<!-- BEGIN fact:pinhole_x_mm -->2,454<!-- END fact:pinhole_x_mm -->mm (pinhole centerline), Z=900mm — waist height from the walkway deck, just above the
-Blue/Brown selector BV-05. A 1/2" PVC riser runs up from BV-05 to BV-06. A 4 m length of 1/2"
+BV-06 (1/2" ball valve, spray-bar on/off) is mounted on the pinhole wall (Yd=0), 150mm toward the EP of the
+pinhole centerline (clear of the tray-sump suction riser), at Z=900mm — waist height from the walkway deck,
+directly above the Blue/Brown selector BV-05 (Z=700mm). A 1/2" PVC riser runs up from BV-05 to BV-06. A 4 m length of 1/2"
 reinforced braided PVC hose connects from BV-06 down to the manifold center inlet at the
 ball joint. The hose coils when the bar is near the pinhole wall and extends as the bar is
 pushed toward the far wall. The hose trails along the near tray rim, staying clear of
